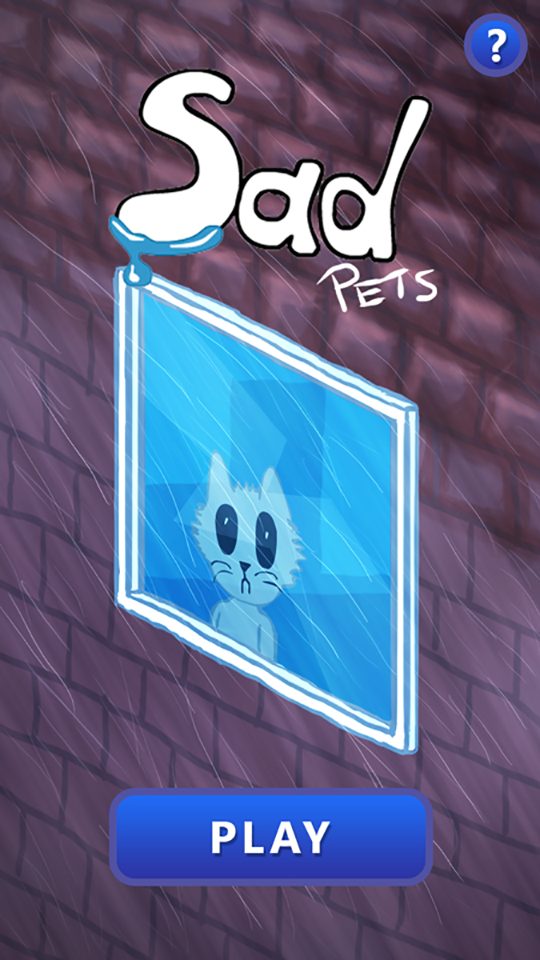
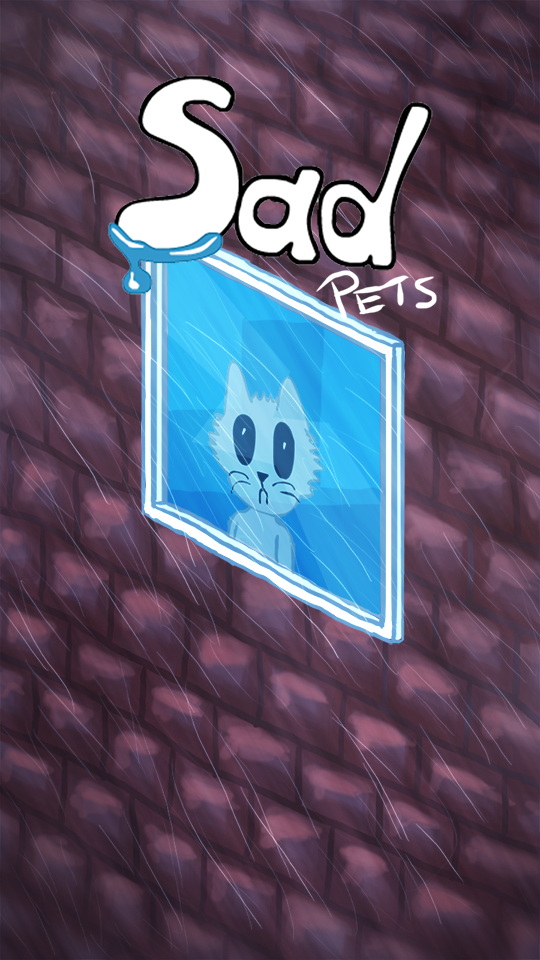
Buttons added

diff --git a/src/view/View.java b/src/view/View.java
@@ -24,6 +24,8 @@ import javax.swing.JTextField;
 import javax.swing.SwingConstants;
 import javax.swing.SwingUtilities;
 
+import com.sun.glass.ui.Cursor;
+
 import controler.Controler;
 import model.Bouble;
 import sun.audio.AudioPlayer;
@@ -120,39 +122,41 @@ public class View {
 		JLabel bg = new JLabel();
 		bg.setIcon(new ImageIcon("res/main.png"));
 		bg.setBounds(0,0,540,960);
+
+		JLabel btnPlay = new JLabel(new ImageIcon("res/playButton.png"));
+		btnPlay.setBounds(160, 640, 228, 71);
+
+		JLabel btnMultiplayer = new JLabel(new ImageIcon("res/multiplayerButton.png"));
+		btnMultiplayer.setBounds(160, 721, 228, 71);
+
+		JLabel btnCredits = new JLabel(new ImageIcon("res/creditsButton.png"));
+		btnCredits.setBounds(160, 802, 228, 71);
+		
 	
-		JButton btnPlay = new JButton("Play");
-		btnPlay.setBounds(200, 500, 150, 50);
-		btnPlay.setFont(new java.awt.Font("Arial", Font.BOLD, 14));
-		btnPlay.setBackground(Color.YELLOW);
-		btnPlay.setForeground(Color.BLUE);
-		btnPlay.setFocusPainted(false);
-		
-		JButton btnMultiplayer = new JButton("Multiplayer");
-		btnMultiplayer.setBounds(200, 570, 150, 50);
-		btnMultiplayer.setFont(new java.awt.Font("Arial", Font.BOLD, 14));
-		btnMultiplayer.setBackground(Color.YELLOW);
-		btnMultiplayer.setForeground(Color.BLUE);
-		btnMultiplayer.setFocusPainted(false);
-		
-		JButton btnHelp = new JButton("Help");
-		btnHelp.setBounds(200, 640, 150, 50);
-		btnHelp.setFont(new java.awt.Font("Arial", Font.BOLD, 14));
-		btnHelp.setBackground(Color.YELLOW);
-		btnHelp.setForeground(Color.BLUE);
-		btnHelp.setFocusPainted(false);
-		
-		JButton btnCredits = new JButton("Credits");
-		btnCredits.setBounds(200, 710, 150, 50);
-		btnCredits.setFont(new java.awt.Font("Arial", Font.BOLD, 14));
-		btnCredits.setBackground(Color.YELLOW);
-		btnCredits.setForeground(Color.BLUE);
-		btnCredits.setFocusPainted(false);
+//		JButton btnPlay = new JButton("Play");
+//		btnPlay.setBounds(200, 500, 150, 50);
+//		btnPlay.setFont(new java.awt.Font("Arial", Font.BOLD, 14));
+//		btnPlay.setBackground(Color.YELLOW);
+//		btnPlay.setForeground(Color.BLUE);
+//		btnPlay.setFocusPainted(false);
+//		
+//		JButton btnMultiplayer = new JButton("Multiplayer");
+//		btnMultiplayer.setBounds(200, 570, 150, 50);
+//		btnMultiplayer.setFont(new java.awt.Font("Arial", Font.BOLD, 14));
+//		btnMultiplayer.setBackground(Color.YELLOW);
+//		btnMultiplayer.setForeground(Color.BLUE);
+//		btnMultiplayer.setFocusPainted(false);
+//		
+//		JButton btnCredits = new JButton("Credits");
+//		btnCredits.setBounds(200, 710, 150, 50);
+//		btnCredits.setFont(new java.awt.Font("Arial", Font.BOLD, 14));
+//		btnCredits.setBackground(Color.YELLOW);
+//		btnCredits.setForeground(Color.BLUE);
+//		btnCredits.setFocusPainted(false);
 
 		mainViewPane.add(bg,new Integer(1));
 		mainViewPane.add(btnPlay,new Integer(2));
 		mainViewPane.add(btnMultiplayer,new Integer(2));
-		mainViewPane.add(btnHelp,new Integer(2));
 		mainViewPane.add(btnCredits,new Integer(2));
 			
 		btnPlay.addMouseListener(new MouseAdapter(){
